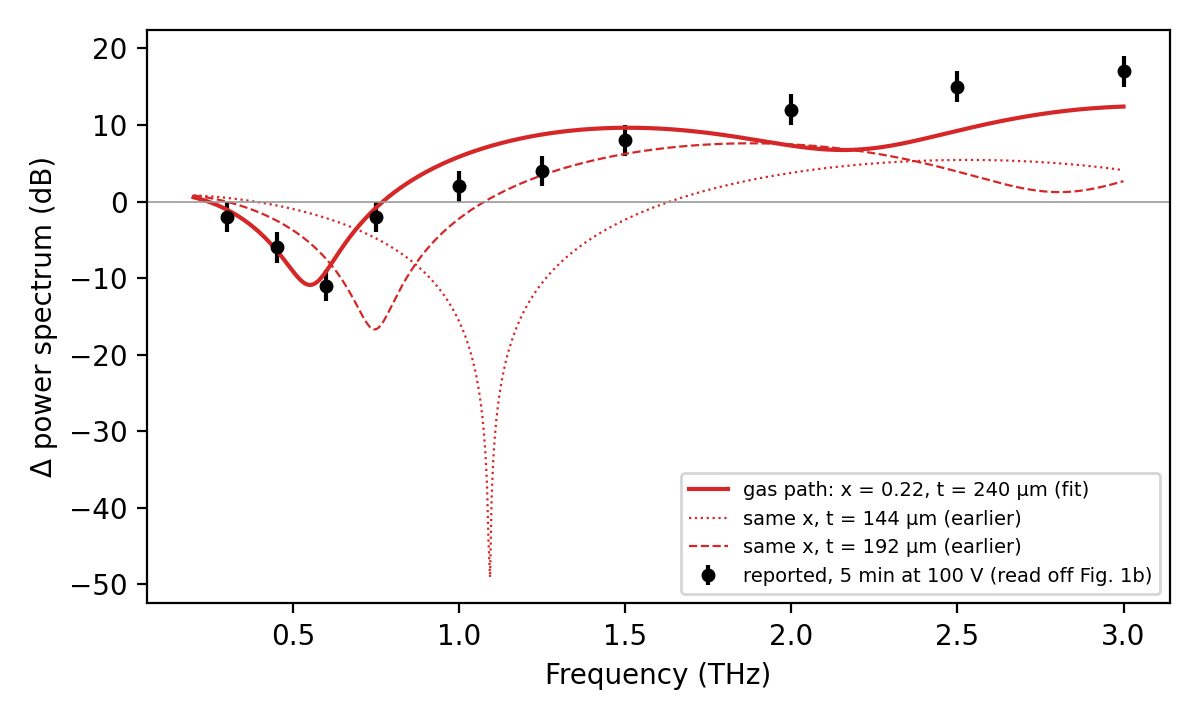
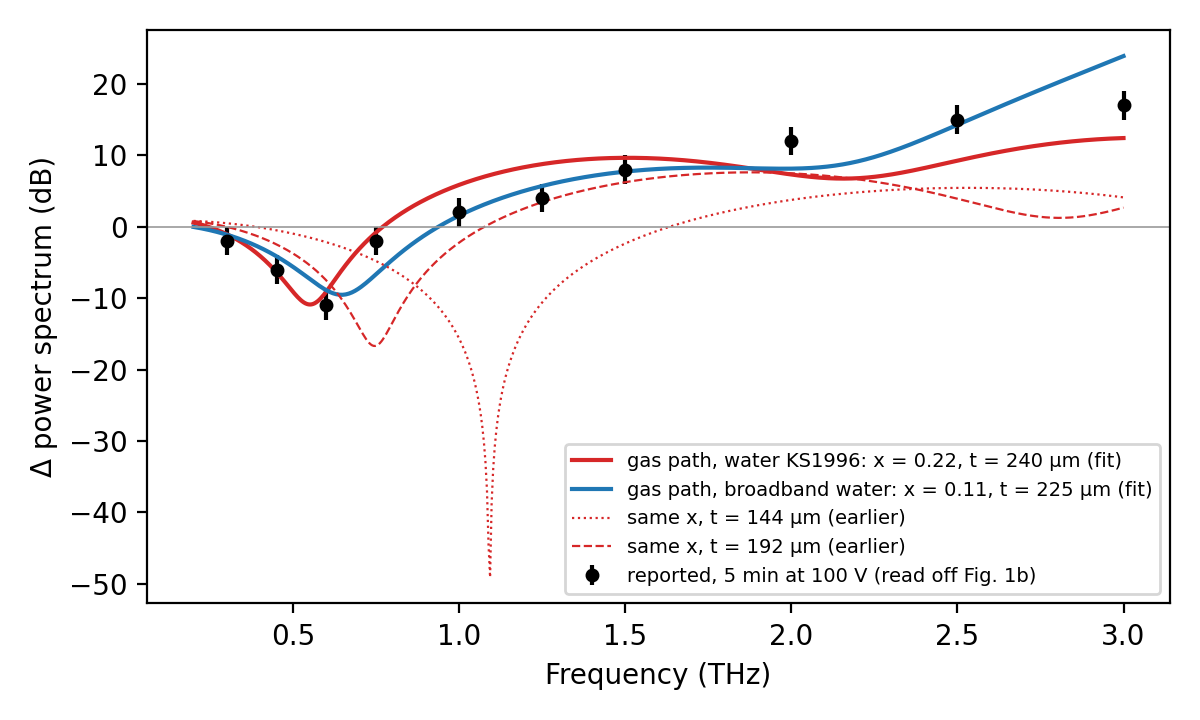
Fig 7: show the gas-path fit for both water models

diff --git a/experiments/exp/sim38_gas_path.py b/experiments/exp/sim38_gas_path.py
@@ -92,7 +92,9 @@ x, t = fits["KS1996"]
 ff = np.linspace(0.2, 3.0, 600)
 fig, ax = plt.subplots(figsize=(6, 3.6))
 ax.errorbar(F_DIG, DB_DIG, yerr=2, fmt="ko", ms=4, label="reported, 5 min at 100 V (read off Fig. 1b)")
-ax.plot(ff, ratio_db(ff, x, t), "C3", label=f"gas path: x = {x:.2f}, t = {t:.0f} µm (fit)")
+ax.plot(ff, ratio_db(ff, x, t), "C3", label=f"gas path, water KS1996: x = {x:.2f}, t = {t:.0f} µm (fit)")
+xb, tb = fits["broadband"]
+ax.plot(ff, ratio_db(ff, xb, tb, WATER_BROADBAND), "C0", label=f"gas path, broadband water: x = {xb:.2f}, t = {tb:.0f} µm (fit)")
 for tt, ls in ((0.6 * t, ":"), (0.8 * t, "--")):
     ax.plot(ff, ratio_db(ff, x, tt), "C3", ls=ls, lw=0.8, label=f"same x, t = {tt:.0f} µm (earlier)")
 ax.axhline(0, color="0.6", lw=0.6)
